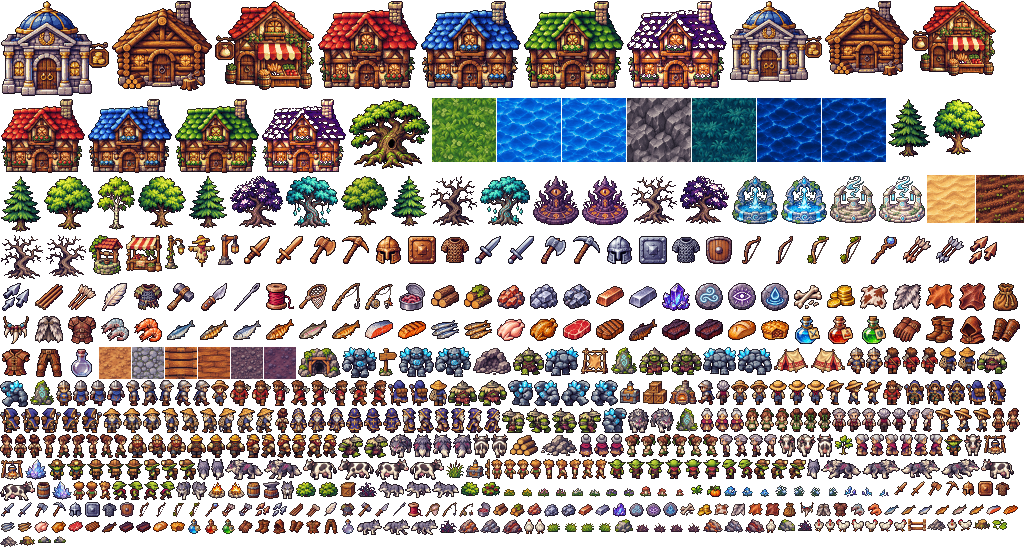
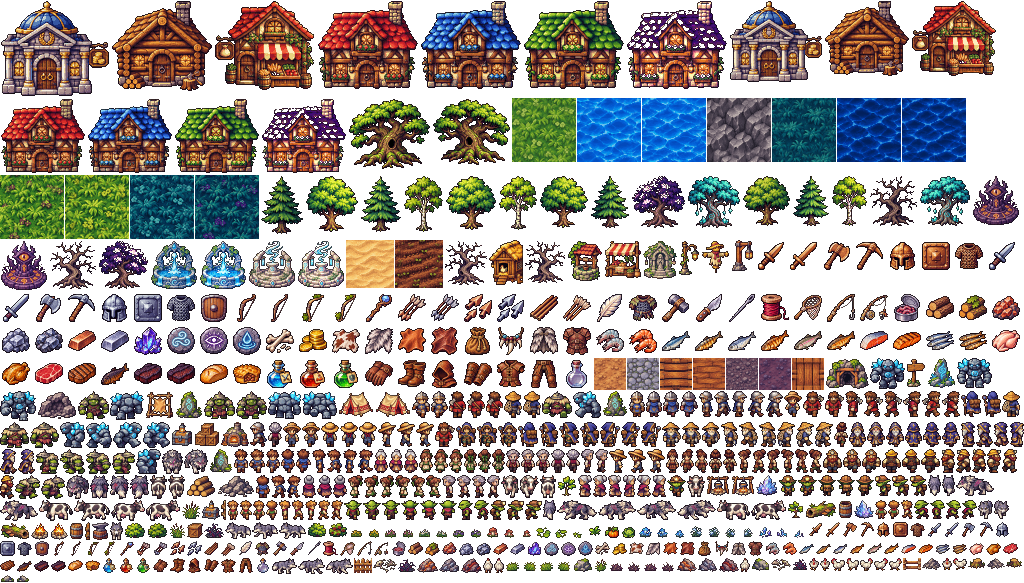
v0.21.0: painted art, part 3
Painted player, remaining scenery and one-off pieces placed in the world,
flower meadows, picket fence, interior walls.

Claude-Session: https://claude.ai/code/session_019qunzX4EbwgX3sGRxgvV4n

diff --git a/src/render/world2d.js b/src/render/world2d.js
@@ -20,6 +20,10 @@ let LIB = null;
 function getLib() {
   if (LIB) return LIB;
   LIB = {
+    birch: art('birch'), oldOak: art('oldOak'), sapling: art('sapling'), hollowLog: art('hollowLog'),
+    reeds: art('reeds'), lilyPads: art('lilyPads'), crateStack: art('crateStack')?.[0], openBarrel: art('openBarrel')?.[0],
+    coop: art('coop')?.[0], mineEntrance: art('mineEntrance')?.[0], shrine: art('shrine')?.[0], runeStone: art('runeStone')?.[0],
+    skeleton: art('skeleton'),
     oak: art('oak') || Array.from({ length: VARIANTS }, (_, i) => S.oakTree(i + 1)),
     pine: art('pine') || Array.from({ length: VARIANTS }, (_, i) => S.pineTree(i + 11)),
     bush: art('bush') || Array.from({ length: VARIANTS }, (_, i) => S.bush(i + 21)),
@@ -73,6 +77,7 @@ function getLib() {
     treeShadow: S.shadow(15, 4),
     smallShadow: S.shadow(6, 2),
     player: S.playerFrames(),
+    paintedPlayer: paintedFrames('player'),
     people: new Map(),
   };
   for (const v of ['copper', 'tin', 'iron']) if (art('ore:' + v)) LIB.ore[v] = art('ore:' + v);
@@ -95,8 +100,8 @@ function framesFor(lib, look, key, kind = 'person') {
 
 // A fence piece from the painted art: a post, rails to the east, and (drawn in
 // code, as the art has no side-on fence) rails running south.
-function paintedFence(east, south) {
-  const post = art('fencePost')?.[0], rail = art('fenceRail')?.[0];
+function paintedFence(east, south, picket = false) {
+  const post = art(picket ? 'picketPost' : 'fencePost')?.[0], rail = art(picket ? 'picketRail' : 'fenceRail')?.[0];
   if (!post || !rail) return null;
   const base = S.fence(false, south); // 28 x 32, post at x 6-9, anchor (8, 17)
   const c = document.createElement('canvas');
@@ -116,7 +121,7 @@ export function createWorldView(canvasEl, area) {
 
   const lib = getLib();
   const fences = {};
-  const fenceSprite = (e, s) => (fences[`${e}${s}`] ||= paintedFence(e, s) || S.fence(e, s));
+  const fenceSprite = (e, s, k = false) => (fences[`${e}${s}${k}`] ||= paintedFence(e, s, k) || S.fence(e, s));
 
   // ---- Place everything -------------------------------------------------------------
   const decals = []; // drawn flat on the ground, under everything else
@@ -139,20 +144,32 @@ export function createWorldView(canvasEl, area) {
     const f = footOf(p);
     switch (p.type) {
       case 'tree': {
-        const spr = pick(p.variant === 'oak' ? lib.oak : p.variant === 'dead' ? lib.deadTree : p.variant === 'gloom' ? lib.gloomTree : lib.pine, p);
+        const spr = pick(p.variant === 'oak' ? lib.oak : p.variant === 'dead' ? lib.deadTree : p.variant === 'gloom' ? lib.gloomTree
+          : p.variant === 'birch' ? lib.birch || lib.oak : p.variant === 'oldOak' ? lib.oldOak || lib.oak : lib.pine, p);
         shadows.push({ spr: lib.treeShadow, x: f.x, y: f.y, prop: p });
         place(spr, f.x, f.y, { fade: true, prop: p, fx: f.x, fy: f.y });
         break;
       }
       case 'bush': place(pick(lib.bush, p), f.x, f.y); break;
+      case 'sapling': place(pick(lib.sapling || lib.bush, p), f.x, f.y); break;
+      case 'hollowLog': if (lib.hollowLog) place(pick(lib.hollowLog, p), f.x, f.y); else place(lib.logPile, f.x, f.y); break;
+      case 'reeds': if (lib.reeds) place(pick(lib.reeds, p), f.x + jit(p, 9) / 2, f.y + 1); break;
+      case 'lilyPads': if (lib.lilyPads) { const spr = pick(lib.lilyPads, p); decals.push({ img: spr.img, x: p.x * TILE + jit(p, 10) / 2, y: p.y * TILE + jit(p, 11) / 2 }); } break;
+      case 'crateStack': place(lib.crateStack || lib.crate, f.x, f.y); break;
+      case 'openBarrel': place(lib.openBarrel || lib.barrel, f.x, f.y); break;
+      case 'coop': place(lib.coop || lib.crate, f.x, f.y); break;
+      case 'mineEntrance': if (lib.mineEntrance) place(lib.mineEntrance, f.x, f.y, { sortY: f.y - 12 }); break;
+      case 'shrine': place(lib.shrine || lib.ruinWall[0], f.x, f.y); break;
+      case 'runeStone': place(lib.runeStone || lib.standingStone[0], f.x, f.y); break;
+      case 'skeleton': if (lib.skeleton) { const spr = pick(lib.skeleton, p); decals.push({ img: spr.img, x: Math.round(f.x - spr.ax + jit(p, 12)), y: Math.round(f.y - spr.ay) }); } break;
       case 'rock': place(pick(lib.rock, p), f.x, f.y); break;
       case 'flowers': {
         const spr = pick(lib.flowers, p);
         decals.push({ img: spr.img, x: p.x * TILE + jit(p, 1), y: p.y * TILE + jit(p, 2) });
         break;
       }
-      case 'crop': place(lib.crop[p.ripe ? 1 : 0], f.x, f.y); break;
-      case 'fence': place(fenceSprite(isFence.has(`${p.x + 1},${p.y}`), isFence.has(`${p.x},${p.y + 1}`)), f.x, f.y - 2); break;
+      case 'crop': place(lib.crop[p.ripe ? 1 : lib.crop[2] && (p.x + p.y * 3) % 3 === 0 ? 2 : 0], f.x, f.y); break;
+      case 'fence': place(fenceSprite(isFence.has(`${p.x + 1},${p.y}`), isFence.has(`${p.x},${p.y + 1}`), p.style === 'picket'), f.x, f.y - 2); break;
       case 'lamp': place(area.id === 'mine' && lib.mineLamp ? lib.mineLamp : lib.lamp, f.x, f.y); break;
       case 'sign': place(lib.sign, f.x, f.y); break;
       case 'well': place(lib.well, f.x, f.y + 1); break;
@@ -387,7 +404,7 @@ export function createWorldView(canvasEl, area) {
     const { time, steps, marker, characters = [], enemies = [], combat = null, ground: groundItems = [], playerLook = null } = opts;
     // Your character, dressed in whatever you're wearing.
     if (playerLook !== lastLook) { lastLook = playerLook; lastLookKey = playerLook ? `player:${JSON.stringify(playerLook)}` : null; }
-    const pFrames = lastLookKey ? framesFor(lib, playerLook, lastLookKey) : lib.player;
+    const pFrames = lib.paintedPlayer || (lastLookKey ? framesFor(lib, playerLook, lastLookKey) : lib.player);
     const pObj = personObj(pFrames, player, steps, { player: true }, time, Math.max(combat?.playerLungeAt ?? -99, opts.skillLungeAt ?? -99));
     // Leaning into each swing while skilling.
     const lean = skillLean(opts.skilling, time, { fx: pObj.fx, fy: pObj.fy, facing: player.facing });

diff --git a/data/areas/route1.js b/data/areas/route1.js
@@ -218,7 +218,7 @@ export function buildRoute1() {
     if (k === 2) continue; // gap facing the road
     one('standingStone', Math.round(99.5 + Math.cos(a) * 5), Math.round(41 + Math.sin(a) * 3.5));
   }
-  one('ruinWall', 99, 41, { interact: ['A worn stone altar. Carvings of a great tree circle its base.', "There's a hollow in the top, as if something used to sit there."] });
+  one('shrine', 99, 41, { interact: ['A worn stone altar. Carvings of a great tree circle its base.', "There's a hollow in the top, as if something used to sit there."] });
 
   // The wrecked merchant's cart, on the mine road
   clearArea(36, 33, 42, 38);
@@ -232,6 +232,26 @@ export function buildRoute1() {
     const a = (k / 10) * Math.PI * 2;
     one('mushrooms', Math.round(70 + Math.cos(a) * 3), Math.round(89 + Math.sin(a) * 2.2), { blocks: false });
   }
+
+  // A glowing rune stone stands in the middle of the ring
+  one('runeStone', 70, 89, { interact: ['A standing stone carved with a glowing rune.', 'The mushrooms around it grow in a perfect circle. Nobody planted them.'] });
+
+  // ---- The mine entrance: a timbered tunnel in a rock face at the end of the north-west road ----
+  for (let x = 24; x <= 37; x++) for (let y = 0; y <= 1; y++) {
+    if (y === 1 && (x === 30 || x === 31)) continue;
+    ground[i(x, y)] = GROUND.ROCKWALL; block(x, y); taken[i(x, y)] = 1; keep[i(x, y)] = 1;
+  }
+  props.push({ type: 'mineEntrance', tiles: [{ x: 30, y: 1 }, { x: 31, y: 1 }], x: 30, y: 1 });
+
+  // ---- Old trees, fallen logs and leftovers ------------------------------------------------------
+  for (const [x, y] of [[24, 20], [62, 39], [47, 71], [101, 58], [9, 69], [76, 37]]) at('tree', x, y, { variant: 'oldOak' });
+  const log2 = (x, y) => { if (free(x, y) && free(x + 1, y) && ground[i(x, y)] === GROUND.GRASS && ground[i(x + 1, y)] === GROUND.GRASS) prop('hollowLog', [{ x, y }, { x: x + 1, y }]); };
+  for (const [x, y] of [[40, 43], [70, 44], [25, 71], [88, 64], [60, 89], [16, 15]]) log2(x, y);
+  for (const [x, y] of [[93, 9], [100, 9], [89, 12]]) at('skeleton', x, y, { blocks: false, interact: ['Old bones. Something big did this.'] });
+  for (const [x, y] of [[30, 41], [10, 57]]) at('crateStack', x, y);                  // goblin loot
+  at('openBarrel', 12, 44); at('openBarrel', 26, 52);
+  at('crateStack', 25, 77); at('openBarrel', 30, 79);                                 // hunters' camp
+  at('crateStack', 39, 37);                                                           // the merchant's cart
 
   // ---- Forest: thick round the edge, copses and woods everywhere else -------------------------
   for (let y = 0; y < H; y++) for (let x = 0; x < W; x++) {
@@ -261,6 +281,13 @@ export function buildRoute1() {
     else if (r < 0.06) one('tallGrass', x, y, { blocks: false });
   }
 
+  // Birches among the woods (only out in the wild woods, so the trees you
+  // came to chop stay oaks and pines), and young saplings among the bushes.
+  for (const p of props) {
+    if (p.type === 'tree' && (p.variant === 'oak' || p.variant === 'pine') && !keep[i(p.x, p.y)] && (p.x * 13 + p.y * 7) % 9 === 0) p.variant = 'birch';
+    if (p.type === 'bush' && (p.x * 5 + p.y * 3) % 4 === 0) p.type = 'sapling';
+  }
+
   return {
     id: 'route1',
     name: 'Thornwood',
@@ -268,7 +295,7 @@ export function buildRoute1() {
     spawn: { x: 55, y: H - 3, facing: Math.PI },
     exits: [
       { tiles: [{ x: 55, y: H - 1 }, { x: 56, y: H - 1 }], to: 'brambleford', at: { x: 21, y: 1 }, facing: 0 },
-      { tiles: [{ x: 30, y: 0 }, { x: 31, y: 0 }], to: 'mine', at: { x: 15, y: 26 }, facing: Math.PI },
+      { tiles: [{ x: 30, y: 1 }, { x: 31, y: 1 }], to: 'mine', at: { x: 15, y: 26 }, facing: Math.PI },
       { tiles: [{ x: W - 1, y: 48 }, { x: W - 1, y: 49 }], to: 'vale', at: { x: 2, y: 29 }, facing: Math.PI / 2 },
     ],
     spawns: [

diff --git a/src/render/ground.js b/src/render/ground.js
@@ -66,9 +66,27 @@ function textures(theme) {
   if (TEX[theme]) return TEX[theme];
   const t = (n) => texture(n);
   TEX[theme] = theme === 'vale'
-    ? { grass: t('valeGrass'), path: t('valePath'), sand: t('valePath'), water: [t('valeWater0'), t('valeWater1')], cave: t('cave'), rockwall: t('rockwall'), bridge: t('bridge'), floor: t('floor') }
-    : { grass: t('grass'), path: t('path'), plaza: t('plaza'), sand: t('sand'), dirt: t('dirt'), water: [t('water0'), t('water1')], bridge: t('bridge'), floor: t('floor'), cave: t('cave'), rockwall: t('rockwall') };
+    ? { flowers: flowerMasks([t('valeBlue'), t('valePurple')]), grass: t('valeGrass'), path: t('valePath'), sand: t('valePath'), water: [t('valeWater0'), t('valeWater1')], cave: t('cave'), rockwall: t('rockwall'), bridge: t('bridge'), floor: t('floor') }
+    : { flowers: flowerMasks([t('grassPink'), t('grassYellow')]), wall: t('wall'), grass: t('grass'), path: t('path'), plaza: t('plaza'), sand: t('sand'), dirt: t('dirt'), water: [t('water0'), t('water1')], bridge: t('bridge'), floor: t('floor'), cave: t('cave'), rockwall: t('rockwall') };
   return TEX[theme];
+}
+// From a flowery grass texture, keep just the flowers: pixels much brighter
+// than the texture's average and a different colour from it.
+function flowerMasks(list) {
+  return list.filter(Boolean).map((tx) => {
+    const n = tx.w * tx.h;
+    let r = 0, g = 0, b = 0;
+    for (let k = 0; k < n; k++) { r += tx.data[k * 4]; g += tx.data[k * 4 + 1]; b += tx.data[k * 4 + 2]; }
+    r /= n; g /= n; b /= n;
+    const lum0 = (r + g + b) / 3;
+    const mask = new Uint8Array(n);
+    for (let k = 0; k < n; k++) {
+      const R = tx.data[k * 4], G = tx.data[k * 4 + 1], B = tx.data[k * 4 + 2];
+      const d = Math.abs(R - r) + Math.abs(G - g) + Math.abs(B - b);
+      if ((R + G + B) / 3 - lum0 > 30 && d > 110 && !(G > R + 15 && G > B + 15)) mask[k] = 1;
+    }
+    return { tx, mask };
+  });
 }
 const px = (tx, x, y) => { const i = (((y % tx.h) * tx.w) + (x % tx.w)) * 4; return [tx.data[i], tx.data[i + 1], tx.data[i + 2]]; };
 
@@ -118,7 +136,17 @@ export function buildGround(area) {
 
       let c;
       switch (t) {
-        case GROUND.GRASS: c = T.grass ? px(T.grass, x, y) : grassPixel(x, y); break;
+        case GROUND.GRASS: {
+          c = T.grass ? px(T.grass, x, y) : grassPixel(x, y);
+          // flower meadows here and there
+          for (let k = 0; k < T.flowers.length; k++) {
+            if (vn(x, y, 56, 140 + k) < 0.72) continue;
+            const F = T.flowers[k];
+            const fx = (x + 17 * k) % F.tx.w, fy = (y + 29 * k) % F.tx.h;
+            if (F.mask[fy * F.tx.w + fx]) { c = px(F.tx, fx, fy); break; }
+          }
+          break;
+        }
         case GROUND.PATH: {
           if (T.path) { c = px(T.path, x, y); break; }
           const n = rnd(x, y, 31);
@@ -173,6 +201,7 @@ export function buildGround(area) {
           const below = g(tx, ty + 1);
           if (below !== GROUND.WALL && ly >= 13) c = P.skirting;
           else if (ly < 2 && g(tx, ty - 1) !== GROUND.WALL) c = P.wallTop;
+          else if (T.wall) c = px(T.wall, x, y);
           else c = (lx % 8 === 0) ? P.wall[0] : P.wall[1 + (rnd(tx * 2 + (lx >> 3), ty, 96) < 0.5 ? 0 : 1)];
           break;
         }

diff --git a/data/areas/decor.js b/data/areas/decor.js
@@ -1,0 +1,38 @@
+// Finishing touches added to an area after it's built: reeds along the
+// water's edge and lily pads out on open water. They're scenery only (you can
+// walk through reeds), and they keep clear of fishing spots and anything else
+// already there.
+
+import { GROUND } from '../../src/world/area.js';
+
+const hash = (x, y, s) => {
+  let h = Math.imul(x, 374761393) + Math.imul(y, 668265263) + Math.imul(s, 1442695041);
+  h = Math.imul(h ^ (h >>> 13), 1274126177);
+  return ((h ^ (h >>> 16)) >>> 0) / 4294967296;
+};
+
+export function waterEdges(def) {
+  const { W, H, ground, props } = def;
+  const g = (x, y) => (x >= 0 && y >= 0 && x < W && y < H ? ground[y * W + x] : -1);
+  const used = new Set();
+  const nearFish = new Set();
+  for (const p of props) for (const t of p.tiles) {
+    used.add(t.y * W + t.x);
+    if (p.type === 'fishingSpot') for (let dy = -2; dy <= 2; dy++) for (let dx = -2; dx <= 2; dx++) nearFish.add((t.y + dy) * W + t.x + dx);
+  }
+  for (const e of def.exits || []) for (const t of e.tiles) used.add(t.y * W + t.x);
+  for (let y = 1; y < H - 1; y++) for (let x = 1; x < W - 1; x++) {
+    const k = y * W + x;
+    if (used.has(k) || nearFish.has(k)) continue;
+    const t = g(x, y);
+    if (t === GROUND.GRASS || t === GROUND.SAND) {
+      const shore = [[1, 0], [-1, 0], [0, 1], [0, -1]].some(([dx, dy]) => g(x + dx, y + dy) === GROUND.WATER);
+      if (shore && hash(x, y, 7) < 0.28) props.push({ type: 'reeds', tiles: [{ x, y }], x, y, blocks: false });
+    } else if (t === GROUND.WATER) {
+      let open = true;
+      for (let dy = -1; dy <= 1 && open; dy++) for (let dx = -1; dx <= 1; dx++) if (g(x + dx, y + dy) !== GROUND.WATER) { open = false; break; }
+      if (open && hash(x, y, 9) < 0.06) props.push({ type: 'lilyPads', tiles: [{ x, y }], x, y, blocks: false });
+    }
+  }
+  return def;
+}

diff --git a/data/areas/brambleford.js b/data/areas/brambleford.js
@@ -172,7 +172,7 @@ export function buildBrambleford() {
   // ---- Farm fence with a gate gap at (30, 28) -----------------------------
   for (let x = 28; x <= 38; x++) for (let y = 28; y <= 33; y++) {
     const edge = x === 28 || x === 38 || y === 28 || y === 33;
-    if (edge && !(x === 30 && y === 28)) one('fence', x, y);
+    if (edge && !(x === 30 && y === 28)) one('fence', x, y, { style: 'picket' });
   }
   for (let x = 29; x <= 37; x++) for (let y = 29; y <= 32; y++) if ((y - 29) % 2 === 0) one('crop', x, y, { blocks: false, ripe: x % 3 === 0 });
   one('scarecrow', 35, 30, { interact: ['A scarecrow in a battered hat. The crows seem unimpressed.'] });
@@ -183,7 +183,7 @@ export function buildBrambleford() {
     if (edge && !(x === 22 && y === 27)) one('fence', x, y);
   }
   rect(22, 28, 22, 28, GROUND.DIRT);
-  one('crate', 25, 28, { interact: ['A chicken coop made from an old crate. There is straw and a feather inside.'] });
+  prop('coop', [{ x: 24, y: 28 }, { x: 25, y: 28 }], { interact: ["Wyn's chicken coop. There is straw and a warm egg inside."] });
   one('sign', 23, 26, { interact: ["WYN'S CHICKENS", 'Too many hens! Help yourself, but mind the cabbages.'] });
 
   // ---- Old Finn's fishing corner by the pond --------------------------------

diff --git a/data/areas/vale.js b/data/areas/vale.js
@@ -75,6 +75,7 @@ export function buildVale() {
   one('campfire', 31, 26, { action: 'cook', interact: ['A small cooking fire.'] });
   for (const [x, y] of [[33, 24], [25, 27]]) one('crate', x, y);
   one('barrel', 33, 25);
+  for (const [x, y, t] of [[34, 27, 'crateStack'], [24, 26, 'openBarrel']]) if (free(x, y)) one(t, x, y);
   one('logPile', 32, 23, { interact: ['Firewood.'] });
   // Lanterns at the crossroads, so the way is never quite lost in the dark.
   for (const [x, y] of [[21, 28], [24, 32], [50, 28], [21, 45], [21, 14]]) one('lamp', x, y);
@@ -107,6 +108,9 @@ export function buildVale() {
   clearArea(11, 41, 21, 52);
   prop('altar', [{ x: 14, y: 46 }, { x: 15, y: 46 }], { variant: 'water' });
   for (const [x, y] of [[17, 51], [12, 42]]) placeIfFree('thornBush', x, y);
+
+  // Old skeletons lie where the golems roam
+  for (const [x, y] of [[38, 18], [48, 10], [30, 40], [54, 36]]) if (free(x, y)) one('skeleton', x, y, { blocks: false, interact: ['A skeleton, half sunk in the dead grass. Crystal dust glitters on the bones.'] });
 
   // ---- Trees: a forest rim round the vale, and copses within it --------------------------
   for (let y = 0; y < H; y++) for (let x = 0; x < W; x++) {

diff --git a/data/areas/index.js b/data/areas/index.js
@@ -5,10 +5,11 @@ import { buildRoute1 } from './route1.js';
 import { buildStore, buildBank } from './interiors.js';
 import { buildMine } from './mine.js';
 import { buildVale } from './vale.js';
+import { waterEdges } from './decor.js';
 
 export const AREAS = {
-  brambleford: buildBrambleford,
-  route1: buildRoute1,
+  brambleford: () => waterEdges(buildBrambleford()),
+  route1: () => waterEdges(buildRoute1()),
   store: buildStore,
   bank: buildBank,
   mine: buildMine,

diff --git a/src/version.js b/src/version.js
@@ -1,3 +1,3 @@
 // Shown in Settings. Bump with every batch.
-export const GAME_VERSION = '0.20.0';
-export const BUILD_NAME = 'Painted art, part 2';
+export const GAME_VERSION = '0.21.0';
+export const BUILD_NAME = 'Painted art, part 3';

diff --git a/tools/build_art.py b/tools/build_art.py
@@ -44,7 +44,12 @@ add('oak', oak, h=56); add('oak', ImageOps.mirror(oak), h=54)
 add('oak', tint(oak, 0.9, 0.95), h=52); add('oak', tint(ImageOps.mirror(oak), 1.06), h=58)
 add('pine', pine, h=58); add('pine', ImageOps.mirror(pine), h=54)
 add('pine', tint(pine, 0.88), h=60); add('pine', tint(ImageOps.mirror(pine), 1.05), h=52)
-add('birch', src(NAT, 3), h=56); add('oldOak', src(NAT, 1), h=72); add('sapling', src(NAT, 19), h=22)
+birch, old, sap = src(NAT, 3), src(NAT, 1), src(NAT, 19)
+add('birch', birch, h=56); add('birch', ImageOps.mirror(birch), h=52); add('birch', tint(birch, 0.92), h=58)
+add('oldOak', old, h=72); add('oldOak', ImageOps.mirror(old), h=68)
+add('sapling', sap, h=22); add('sapling', ImageOps.mirror(sap), h=19)
+hollow = src(NAT, 15)
+add('hollowLog', hollow, w=32); add('hollowLog', ImageOps.mirror(hollow), w=30)
 bush, berry = src(NAT, 4), src(NAT, 5)
 add('bush', bush, w=22); add('bush', ImageOps.mirror(bush), w=20); add('bush', berry, w=20); add('bush', tint(bush, 0.9), w=21)
 grass = src(NAT, 6)
@@ -59,7 +64,9 @@ add('rock', big, w=20); add('rock', ImageOps.mirror(big), w=19); add('rock', sma
 stump = src(NAT, 14)
 add('stump', stump, w=18); add('stump', ImageOps.mirror(stump), w=17)
 add('logPile', src(NAT, 16), w=30)
-add('reeds', src(NAT, 18), h=20); add('lilyPads', src(NAT, 17), w=16)
+reeds, lily = src(NAT, 18), src(NAT, 17)
+add('reeds', reeds, h=20); add('reeds', ImageOps.mirror(reeds), h=17); add('reeds', reeds, h=14)
+add('lilyPads', lily, w=15, box=(16, 16)); add('lilyPads', ImageOps.mirror(lily), w=12, box=(16, 16)); add('lilyPads', lily, w=9, box=(16, 16))
 
 # ---- Village props -------------------------------------------------------------
 add('well', src(PROPS, 0), h=42)
@@ -69,6 +76,7 @@ add('sign', src(PROPS, 3), w=20)
 add('scarecrow', src(PROPS, 6), h=34)
 add('crop', src(PROPS, 7, (0, 0, 0.34, 0.5)), w=12, box=(16, 16))      # young turnip leaves
 add('crop', src(PROPS, 8, (0, 0.5, 0.34, 1)), w=14, box=(16, 16))      # a ripe pumpkin
+add('crop', src(PROPS, 8, (0, 0, 0.34, 0.5)), w=13, box=(16, 16))      # a cabbage
 add('tanningRack', src(PROPS, 9), h=28)
 pit = src(PROPS, 10)
 add('cookingPit', pit, w=24); add('cookingPit', tint(pit, 1.12), w=24)
@@ -85,6 +93,14 @@ add('openBarrel', src(PROPS, 19), w=15)
 # fence: one post, and the rails between two posts (taken from the straight fence)
 add('fencePost', src(PROPS, 4, (0, 0, 0.17, 1)), h=20)
 add('fenceRail', src(PROPS, 4, (0.12, 0.08, 0.88, 0.85)), w=18, outline=False)
+add('picketPost', src(PROPS, 16, (0, 0, 0.2, 1)), h=18)
+add('picketRail', src(PROPS, 16, (0.15, 0.05, 0.85, 1)), w=18, outline=False)
+
+# ---- One-off pieces --------------------------------------------------------------------
+add('coop', src('04_village_buildings', 7, (0, 0, 0.62, 1)), w=34)
+add('shrine', src('03_altars_magic', 3), w=34)
+add('runeStone', src('03_altars_magic', 4), h=30)
+add('skeleton', src('02_whispering_vale', 9), w=24); add('skeleton', ImageOps.mirror(src('02_whispering_vale', 9)), w=20)
 
 # ---- Whispering Vale ------------------------------------------------------------------
 VALE, ALT, MINE = '02_whispering_vale', '03_altars_magic', '06_mine_smithing'
@@ -163,6 +179,7 @@ for sheet, ids in ICONS.items():
 # (down, up, left, right). The game wants each direction as [stand, step, step].
 # key: (sheet, columns in sheet, first column, first row, height of the standing front frame)
 CHARS = {
+    'player': ('07_characters_adventurer_elder_guard_child', 6, 0, 0, 24),
     'maren': ('07_characters_adventurer_elder_guard_child', 6, 3, 0, 24),
     'tomas': ('07_characters_adventurer_elder_guard_child', 6, 0, 4, 26),
     'pip': ('07_characters_adventurer_elder_guard_child', 6, 3, 4, 20),
@@ -203,7 +220,8 @@ for key, spec in CHARS.items():
 # average so busy textures don't fight the sprites drawn on top of them.
 TEXTURES = {'grass': (0, 64, 0.45), 'path': (3, 32, 0.25), 'plaza': (4, 32, 0.15), 'sand': (5, 48, 0.2), 'dirt': (6, 48, 0.1),
             'water0': (7, 64, 0.25), 'water1': (8, 64, 0.25), 'bridge': (9, 32, 0), 'floor': (10, 32, 0.1), 'cave': (12, 32, 0.2),
-            'rockwall': (13, 64, 0.15, 0.45), 'valeGrass': (14, 64, 0.4), 'valePath': (15, 32, 0.25), 'valeWater0': (16, 64, 0.2), 'valeWater1': (17, 64, 0.2)}
+            'rockwall': (13, 64, 0.15, 0.45), 'valeGrass': (14, 64, 0.4), 'valePath': (15, 32, 0.25), 'valeWater0': (16, 64, 0.2), 'valeWater1': (17, 64, 0.2),
+            'grassPink': (1, 64, 0.2), 'grassYellow': (2, 64, 0.2), 'valeBlue': (18, 64, 0.2), 'valePurple': (19, 64, 0.2), 'wall': (11, 32, 0.1)}
 
 def calm(im, k):
     a = np.array(im).astype(np.float32)

diff --git a/docs/GAME_DESIGN.md b/docs/GAME_DESIGN.md
@@ -532,8 +532,8 @@ Every skill uses the same XP curve and goes to 99. Resources respawn after a tim
 - **Original 2D pixel art** in a cosy farming-RPG style: 16 × 16 px tiles, a 3/4 top-down view, warm saturated colours, and a 1 px dark outline around every sprite so things read clearly on grass.
 - Trees, bushes and rocks are built from clusters of shaded blobs lit from the top-left; ground has textured grass with tufts, ragged path edges, cobbled squares and shimmering water.
 - Characters are small chibi sprites (16 × 24 px) with 4-direction walking animations.
-- Art is moving to a painted pixel-art set (v0.19+): original sprite sheets made for this game, on magenta backgrounds, which `tools/cut_sheets.py` cuts into separate sprites and `tools/build_art.py` shrinks to game scale (16 px tiles, limited palette, dark outline) and packs into one atlas, `assets/art.png` + `art.json` (about 830 KB). The game loads it before it starts; anything not in the atlas, or everything if the atlas fails to load, is still drawn in code. No assets, names or designs are copied from OSRS, Pokémon or any other game.
-- Painted so far: trees (oak, pine), bushes, flowers, tall grass, mushrooms, rocks, stumps, log piles, well, market stall, lamps, signposts, scarecrows, crops, tanning rack, cooking pot, campfires, tents, crates, barrels, chests, fence posts and rails; ground textures for grass, paths, cobbles, sand, farm soil, water (two frames), bridges, floors, cave floor and rock walls, with darker ones for Whispering Vale. Ground textures are made seamless and toned down so sprites stand out. Where grass, paths, sand and soil meet, the border wanders a few pixels either way (the ground is looked up at a point nudged by smooth noise) with a soft shadow along it, so there are no straight tile seams and path ends come out rounded; paved squares get a stone kerb instead. Tall grass, flowers, mushrooms and bones sit slightly off the tile grid. v0.20 added: every villager (walking in four directions, three frames each, scaled once so they don't wobble), goblins, brutes, tunnel goblins, essence golems, wolves, the alpha wolf, chickens and cows; houses (nearest of four roof colours), cabins, the General Store and the Bank, lined up on their real door tiles, with the "free bows" board on Bram's cabin; the three altars (pulsing), standing stones, copper/tin/iron/essence rocks and mined-out rubble, the furnace, anvil and mine lamps, the wolf den and the sealed cave; the vale's dead and blossom/crystal trees, thorn bushes, glowing mushrooms, ghost-flowers, crystals and dead grass; and item icons (a 32 px picture in the bag and menus, 16 px on the ground; potions show a dot per dose). The player is still drawn in code so worn gear shows on them. Still drawn in code: the player, interiors (counters, shelves, rugs), fishing spots, fallen tree, bones, ruined walls and headstones.
+- Art is moving to a painted pixel-art set (v0.19+): original sprite sheets made for this game, on magenta backgrounds, which `tools/cut_sheets.py` cuts into separate sprites and `tools/build_art.py` shrinks to game scale (16 px tiles, limited palette, dark outline) and packs into one atlas, `assets/art.png` + `art.json` (about 920 KB). The game loads it before it starts; anything not in the atlas, or everything if the atlas fails to load, is still drawn in code. No assets, names or designs are copied from OSRS, Pokémon or any other game.
+- Painted so far: trees (oak, pine), bushes, flowers, tall grass, mushrooms, rocks, stumps, log piles, well, market stall, lamps, signposts, scarecrows, crops, tanning rack, cooking pot, campfires, tents, crates, barrels, chests, fence posts and rails; ground textures for grass, paths, cobbles, sand, farm soil, water (two frames), bridges, floors, cave floor and rock walls, with darker ones for Whispering Vale. Ground textures are made seamless and toned down so sprites stand out. Where grass, paths, sand and soil meet, the border wanders a few pixels either way (the ground is looked up at a point nudged by smooth noise) with a soft shadow along it, so there are no straight tile seams and path ends come out rounded; paved squares get a stone kerb instead. Tall grass, flowers, mushrooms and bones sit slightly off the tile grid. v0.20 added: every villager (walking in four directions, three frames each, scaled once so they don't wobble), goblins, brutes, tunnel goblins, essence golems, wolves, the alpha wolf, chickens and cows; houses (nearest of four roof colours), cabins, the General Store and the Bank, lined up on their real door tiles, with the "free bows" board on Bram's cabin; the three altars (pulsing), standing stones, copper/tin/iron/essence rocks and mined-out rubble, the furnace, anvil and mine lamps, the wolf den and the sealed cave; the vale's dead and blossom/crystal trees, thorn bushes, glowing mushrooms, ghost-flowers, crystals and dead grass; and item icons (a 32 px picture in the bag and menus, 16 px on the ground; potions show a dot per dose). v0.21 added the rest of the sheets: the player is now the painted adventurer (worn gear no longer shows on the character; tools still appear while skilling); birches, old oaks, saplings, hollow logs, reeds along the water and lily pads; cabbages; stacked crates and open barrels at the camps; Wyn's chicken coop; the timbered mine entrance at the end of Thornwood's north-west road; the praying-statue shrine; a glowing rune stone in the fairy ring; skeletons in the wolf hills and the vale; picket fencing round Brambleford's farm; flower meadows mixed into the grass (pink and yellow in daylight areas, blue and purple in the vale); and painted wooden walls indoors. Still drawn in code: interiors (counters, shelves, rugs), fishing spots, fallen tree, bones, ruined walls and headstones.
 - Readable silhouettes: each enemy type is recognisable at the default zoom.
 - UI: wood-framed parchment panels with a pixel font (Pixelify Sans), a virtual joystick on touch screens, and an Emerald-style dialogue box.
 

diff --git a/docs/ROADMAP.md b/docs/ROADMAP.md
@@ -62,6 +62,7 @@ Released 2 November 2026 as game version 0.10.0 (the version numbers in Settings
 
 | Date | Change |
 | --- | --- |
+| 3 Nov 2026 | v0.21.0: painted art, part 3 — the player is the painted adventurer; birches, old oaks, saplings, hollow logs, reeds and lily pads; cabbages; crate stacks and open barrels; Wyn's chicken coop; a mine entrance in a rock face at the top of Thornwood; the shrine statue; a rune stone in the fairy ring; skeletons in the wolf hills and vale; picket fence round the farm; flower meadows in the grass; painted interior walls. |
 | 3 Nov 2026 | v0.20.0: painted art, part 2 — all villagers, enemies and animals (four-direction walking frames), houses, cabins, the store and the bank, altars, standing stones, ore rocks, furnace, anvil, mine lamps, cave mouths, the vale's trees and plants, and painted item icons in the bag, menus and on the ground. Grey rock walls. The player keeps the drawn sprite so equipment still shows. |
 | 3 Nov 2026 | v0.19.1: natural ground edges — grass, paths, sand and soil blend into each other with wavy borders and a soft shadow instead of straight tile edges; paved squares get a kerb; small plants and bones no longer line up in rows, and tall grass patches are thinner. Thornwood: the goblin camp's south fence no longer stands in the stream, the west road runs through the camp gate, and short paths now lead to the hermit's door, Bram's door, the farmhouse, the sealed cave, the graveyard gate, the watchtower and the shrine. |
 | 3 Nov 2026 | v0.19.0: painted art, part 1. New sprite-sheet pipeline (cut out magenta sheets, shrink to 16 px scale, pack into one 160 KB atlas loaded at start, code-drawn fallback if it fails). Trees, bushes, flowers, grass, mushrooms, rocks, stumps, log piles, well, stall, lamps, signs, scarecrows, crops, tanning rack, cooking pot, campfires, tents, crates, barrels, chests and fences now use the painted art, and the ground uses painted textures (grass, paths, cobbles, sand, soil, water, bridges, floors, caves, rock walls; darker ones in Whispering Vale). |

diff --git a/README.md b/README.md
@@ -36,7 +36,7 @@ There are no turn-based battles, no battle screens and no creature catching. You
 
 ## Status
 
-**v0.20.0 — Phase 2 in progress.** The first playable version (Brambleford, Thornwood, real-time combat with melee, bows and magic, six combat skills to 99, loot, inventory, equipment, bank, shop, food, potions and gravestones) plus **Woodcutting**, **Fletching**, **Mining**, **Smithing**, **Fishing**, **Cooking**, **Crafting** and **Runecrafting**, Copperdeep Mine, Whispering Vale and Wyn's chicken pen. All XP is 5× the base rates.
+**v0.21.0 — Phase 2 in progress.** The first playable version (Brambleford, Thornwood, real-time combat with melee, bows and magic, six combat skills to 99, loot, inventory, equipment, bank, shop, food, potions and gravestones) plus **Woodcutting**, **Fletching**, **Mining**, **Smithing**, **Fishing**, **Cooking**, **Crafting** and **Runecrafting**, Copperdeep Mine, Whispering Vale and Wyn's chicken pen. All XP is 5× the base rates.
 
 Next: bank tabs and search, then Phase 3 (quests and new regions) (see the [roadmap](docs/ROADMAP.md)).
 
